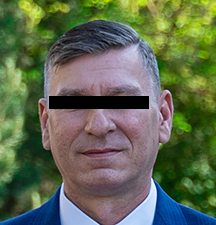
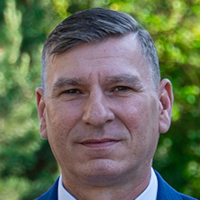
Dodanie rozróżniania osób po linku

diff --git a/wigilia-2023/src/app/draw/draw.component.html b/wigilia-2023/src/app/draw/draw.component.html
@@ -9,34 +9,34 @@
             <div class="main-content">
                 <mat-card class="draw-card">
                     <mat-card-header class="draw-card-header">
-                        <div mat-card-avatar class="draw-card-header-image"></div>
-                        <mat-card-title>Łukasz</mat-card-title>
-                        <mat-card-subtitle>Dog Breed</mat-card-subtitle>
-                    </mat-card-header>
-                    <div *ngIf="!isDrawn">
-                        <div class="draw-card-buttons">
-                            <button id="coin" mat-fab class="draw-card-button" [ngClass]="{'heads': coinClass === 'heads', 'tails' : coinClass === 'tails'}" (click)="coinFlip()">
-                                <mat-icon class="draw-card-icon">loop</mat-icon>
-                            </button>
+                        <div mat-card-avatar class="draw-card-header-image">
+                            <img class="draw-card-header-image-img" src="./assets/images/{{this.foto}}.jpg" alt="" />
                         </div>
+                        <mat-card-title>{{ this.person.key }}</mat-card-title>
+                        <mat-card-subtitle>{{ this.person.podpis }}</mat-card-subtitle>
+                    </mat-card-header>
+                    <div *ngIf="!isDrawn">                        
                         <mat-card-content>
-                            <p>
-                                Kliknij w przycisk ze strzałkami (powyżej) lub w przycisk "LOSUJ" (poniżej) aby wylosować osobę, którą obdarujesz prezentem.<br />
-                                UWAGA: po wylosowaniu nie ma możliwości zmiany osoby!
-                            </p>
+                            <p class="mt-0">&nbsp;</p>
+                            <div class="draw-card-buttons">
+                                <button id="coin" mat-fab class="draw-card-button" [ngClass]="{'heads': coinClass === 'heads', 'tails' : coinClass === 'tails'}" (click)="coinFlip()">
+                                    <mat-icon class="draw-card-icon">loop</mat-icon>
+                                </button>
+                            </div>
+                            <p class="text-center">Kliknij w przycisk ze strzałkami lub w przycisk "LOSUJ" aby wylosować osobę, którą obdarujesz prezentem.</p>
                         </mat-card-content>
                     </div>
-                    <div *ngIf="isDrawn">
-                        <button mat-fab class="draw-card-button draw-card-button--drawn">
-                            <img class="draw-card-image" src="./assets/images/jaroslaw.jpg" alt="" />
-                        </button>
+                    <div *ngIf="isDrawn">                        
                         <mat-card-content>
-                            <p>BRAWO!<br />Wylosowana osoba to:<br /><strong>Dziadzia Jarosław</strong>!</p>
+                            <p class="text-center mt-0">BRAWO! Wylosowana osoba to:</p>
+                            <div class="draw-card-buttons">
+                                <div class="draw-card-button draw-card-button--drawn">
+                                    <img class="draw-card-image" src="./assets/images/{{this.foto}}.jpg" alt="" />
+                                </div>
+                            </div>
+                            <p class="text-center"><strong>Dziadzia Jarosław</strong>!</p>
                         </mat-card-content>
-                    </div>                    
-                    <mat-card-actions>
-                    
-                    </mat-card-actions>
+                    </div>
                 </mat-card>
             </div>
             <div class="actions" *ngIf="!isDrawn">

diff --git a/wigilia-2023/src/app/draw/draw.component.ts b/wigilia-2023/src/app/draw/draw.component.ts
@@ -1,15 +1,76 @@
-import { Component, ElementRef, ViewChild } from '@angular/core';
+import { Component, ElementRef, OnInit, ViewChild } from '@angular/core';
+import { DrawService } from '../services/draw.service';
+import { Osoba } from '../models/draw.model';
+import { ActivatedRoute } from '@angular/router';
 
 @Component({
   selector: 'app-draw',
   templateUrl: './draw.component.html',
   styleUrls: ['./draw.component.scss']
 })
-export class DrawComponent {
+export class DrawComponent implements OnInit {  
 
   @ViewChild('coin') coin!: ElementRef;
   coinClass!: string;
   isDrawn: boolean = false;
+  persons!: Osoba[];
+  person!: Osoba;
+  imie: string;
+  foto: string;
+
+  constructor (
+    private drawService: DrawService,
+    private route: ActivatedRoute
+  ) {
+    switch (String(this.route.snapshot.url)) {
+      case '92941':
+        this.imie = 'jagoda';
+        this.foto = 'jagoda';
+        break;
+      case '5fa58':
+        this.imie = 'jarosław';
+        this.foto = 'jaroslaw';
+        break;
+      case 'd0bc8':
+        this.imie = 'krystyna';
+        this.foto = 'krystyna';
+        break;
+      case '14e10':
+        this.imie = 'lidia';
+        this.foto = 'lidia';
+        break;
+      case 'ca1db':
+        this.imie = 'marcus';
+        this.foto = 'marcus';
+        break;
+      case '70333':
+        this.imie = 'zuzanna';
+        this.foto = 'zuzanna';
+        break;
+      case 'c109c':
+        this.imie = 'łukasz';
+        this.foto = 'lukasz';
+        break;
+      default:
+        this.imie = '';
+        this.foto = '';
+        break;
+    }
+  }
+
+  ngOnInit(): void {
+    // this.drawService.getAllPersons().subscribe(osoba => {
+    //   console.log("aaaaa" + JSON.stringify(osoba));
+    //   this.persons = osoba;
+    // });
+
+    this.drawService.getPerson(this.imie).subscribe(osoba => {
+      console.log("bbbbb" + JSON.stringify(osoba));
+      this.person = osoba;
+    });
+
+
+  }
 
   coinFlip() {
     var flipResult = Math.random();
@@ -17,30 +78,16 @@ export class DrawComponent {
     this.coinClass = 'dupa';
 
     setTimeout(() => {
-      if(flipResult <= 0.5){
+      if (flipResult <= 0.5)
         this.coinClass = 'heads';
-        console.log('it is head');
-      }
-      else{
+      else
         this.coinClass = 'tails';
-        console.log('it is tails');
-      }
     }, 100);
 
     setTimeout(() => {
       this.isDrawn = true;
     }, 3100);
 
-    // setTimeout(function(this){
-    //   if(flipResult <= 0.5){
-    //     this.coin.nativeElement.addClass('heads');
-    //     console.log('it is head');
-    //   }
-    //   else{
-    //     $('#coin').addClass('tails');
-    //     console.log('it is tails');
-    //   }
-    // }, 100);
   };
 
 }

diff --git a/wigilia-2023/src/app/draw/draw.component.scss b/wigilia-2023/src/app/draw/draw.component.scss
@@ -8,10 +8,18 @@
 
 .draw-card {
     width: 400px;
+    height: 400px;
 
     &-header-image {
-        background-image: url('https://scontent-waw1-1.xx.fbcdn.net/v/t39.30808-1/347384807_6394647897295892_6007875994994007536_n.jpg?stp=c93.0.320.320a_dst-jpg_p320x320&_nc_cat=109&ccb=1-7&_nc_sid=5f2048&_nc_ohc=LmVcT3sKE2cAX_3gRhy&_nc_ht=scontent-waw1-1.xx&oh=00_AfC_qrUtenfmPsC0jVQMqbU-TpDOeFo2nGgIk2WfroIzkA&oe=6549526C');
-        background-size: cover;
+        width: 50px;
+        height: 50px;
+        border-radius: 50%;
+        overflow: hidden;
+
+        &-img {
+          width: 100%;
+          height: auto;
+        }
     }
 
     &-buttons {
@@ -32,7 +40,7 @@
     }
 
     &-icon {
-        transform: scale(2);
+        transform: scale(3);
     }
 
     &-image {
@@ -43,13 +51,15 @@
 .title {
     text-align: center;
     color: #fff;
+    z-index: 90;
+    position: relative;
 
     &-header-1 {
-    font-family: "Alex Brush";
-    font-size: 5rem;
-    line-height: 0.8;
-    margin: 40px 0 15px 0;
-    font-weight: 400;
+      font-family: "Alex Brush";
+      font-size: 5rem;
+      line-height: 0.8;
+      margin: 40px 0 15px 0;
+      font-weight: 400;
     }
 
     &-header-2 {
@@ -89,12 +99,15 @@
     }
 }
 
+.mat-mdc-card-title::first-letter {
+  text-transform:capitalize;
+}
 
   #coin {
     position: relative;
     margin: 0 auto;
-    width: 100px;
-    height: 100px;
+    width: 150px;
+    height: 150px;
     cursor: pointer;
   }
   #coin div {

diff --git a/wigilia-2023/src/app/services/draw.service.ts b/wigilia-2023/src/app/services/draw.service.ts
@@ -1,0 +1,31 @@
+import { Injectable } from '@angular/core';
+import { AngularFireDatabase } from '@angular/fire/compat/database';
+import { map } from 'rxjs/operators';
+import { Osoba } from '../models/draw.model';
+import { Observable } from 'rxjs/internal/Observable';
+
+@Injectable({
+  providedIn: 'root'
+})
+export class DrawService {
+  private API_URL = '/osoby';
+
+  constructor(private db: AngularFireDatabase) {}
+
+  getAllPersons(): Observable<Osoba[]> {
+    return this.db.list<Osoba>(this.API_URL)
+      .snapshotChanges()
+      .pipe(map(response => response.map(osoba => this.assignKey(osoba))));
+  }
+
+  getPerson(key: string): Observable<Osoba> {
+    console.log(`${this.API_URL}/${key}`);
+    return this.db.object<Osoba>(`${this.API_URL}/${key}`)
+      .snapshotChanges()
+      .pipe(map(osoba => this.assignKey(osoba)));
+  }
+
+  private assignKey(osoba: any) {
+    return {...osoba.payload.val(), key: osoba.key};
+  }
+}

diff --git a/wigilia-2023/src/app/app-routing.module.ts b/wigilia-2023/src/app/app-routing.module.ts
@@ -7,7 +7,13 @@ import { DrawComponent } from './draw/draw.component';
 const routes: Routes = [
   { path: '', redirectTo: 'losowanie', pathMatch: 'full' },
   { path: 'losowanie', component: DrawComponent },
-  { path: 'losowanie/:key', component: DrawComponent }
+  { path: '92941', component: DrawComponent },
+  { path: '5fa58', component: DrawComponent },
+  { path: 'd0bc8', component: DrawComponent },
+  { path: '14e10', component: DrawComponent },
+  { path: 'ca1db', component: DrawComponent },
+  { path: '70333', component: DrawComponent },
+  { path: 'c109c', component: DrawComponent },
   // { path: '**', component: PageNotFoundComponent}
 ];
 

diff --git a/wigilia-2023/src/app/models/draw.model.ts b/wigilia-2023/src/app/models/draw.model.ts
@@ -1,0 +1,6 @@
+export interface Osoba {
+    podpis: string,
+    wykluczenia: string[],
+    wylosowanaOsoba: string,
+    key: string
+}
